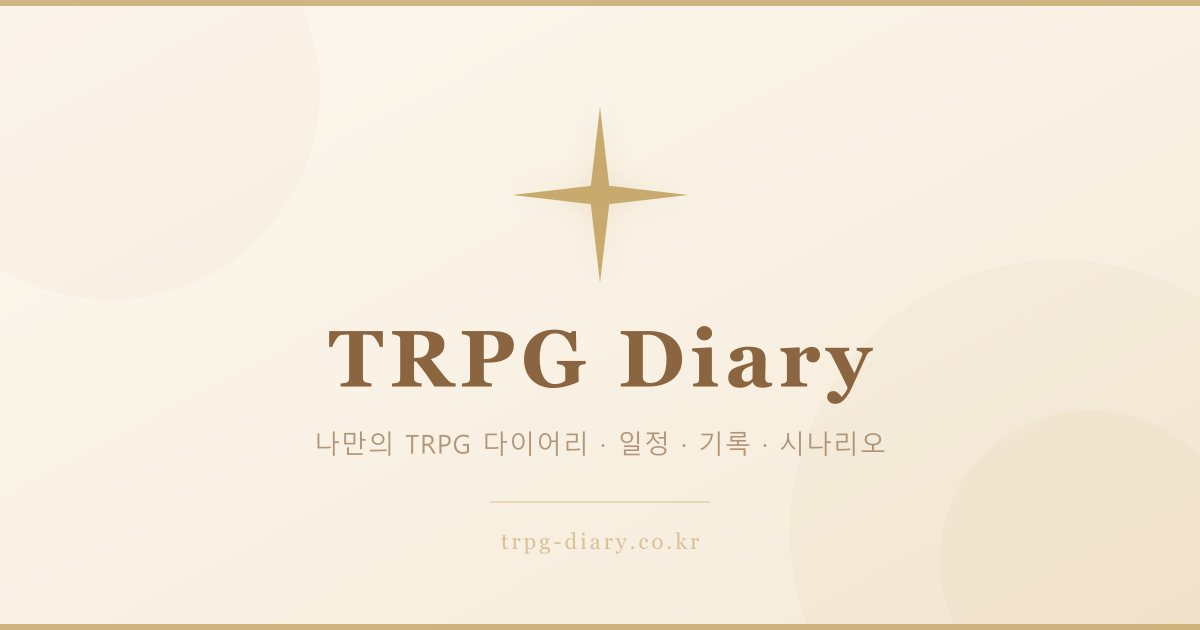
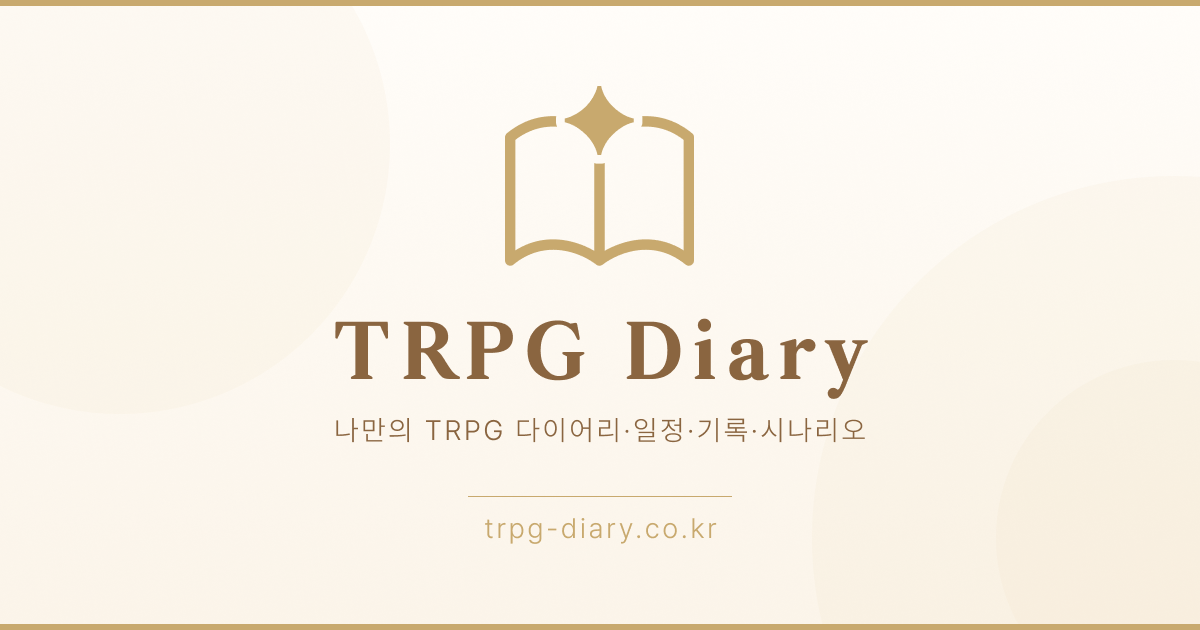
feat: PWA 설치 지원 (홈 화면 앱 아이콘 추가)
- manifest.json: 아이콘(192/512px), start_url, scope, orientation 정비
- public/sw.js: 서비스 워커 추가 (PWA 설치 조건 충족)
- src/index.js: 서비스 워커 등록
- index.html: manifest 링크 + iOS apple-touch-icon 메타태그 추가
- 아이콘 이미지(icon_192.png, icon_512.png) 및 OG 이미지 교체

diff --git a/public/sw.js b/public/sw.js
@@ -1,0 +1,26 @@
+// TRPG Diary Service Worker
+const CACHE_NAME = 'trpg-diary-v1'
+
+self.addEventListener('install', () => {
+  self.skipWaiting()
+})
+
+self.addEventListener('activate', (e) => {
+  e.waitUntil(clients.claim())
+})
+
+// Supabase API 및 외부 리소스는 캐시하지 않음 — 네트워크 우선
+self.addEventListener('fetch', (e) => {
+  const url = e.request.url
+  if (
+    url.includes('supabase.co') ||
+    url.includes('googleapis.com') ||
+    url.includes('youtube.com') ||
+    url.includes('ytimg.com') ||
+    e.request.method !== 'GET'
+  ) return
+
+  e.respondWith(
+    fetch(e.request).catch(() => caches.match(e.request))
+  )
+})

diff --git a/public/index.html b/public/index.html
@@ -5,6 +5,13 @@
     <meta name="viewport" content="width=device-width, initial-scale=1" />
     <meta name="theme-color" content="#c8a96e" />
     <meta name="description" content="나만의 TRPG Diary - 일정, 기록, 룰북, 시나리오를 한곳에서 관리하세요" />
+    <!-- PWA -->
+    <link rel="manifest" href="/manifest.json" />
+    <link rel="apple-touch-icon" href="/icon_192.png" />
+    <meta name="mobile-web-app-capable" content="yes" />
+    <meta name="apple-mobile-web-app-capable" content="yes" />
+    <meta name="apple-mobile-web-app-status-bar-style" content="default" />
+    <meta name="apple-mobile-web-app-title" content="TRPG Diary" />
     <!-- 기본 OG 메타태그 -->
     <meta property="og:type" content="website" />
     <meta property="og:site_name" content="TRPG Diary" />

diff --git a/src/index.js b/src/index.js
@@ -10,3 +10,10 @@ root.render(
     <App />
   </React.StrictMode>
 )
+
+// PWA 서비스 워커 등록
+if ('serviceWorker' in navigator) {
+  window.addEventListener('load', () => {
+    navigator.serviceWorker.register('/sw.js').catch(() => {})
+  })
+}